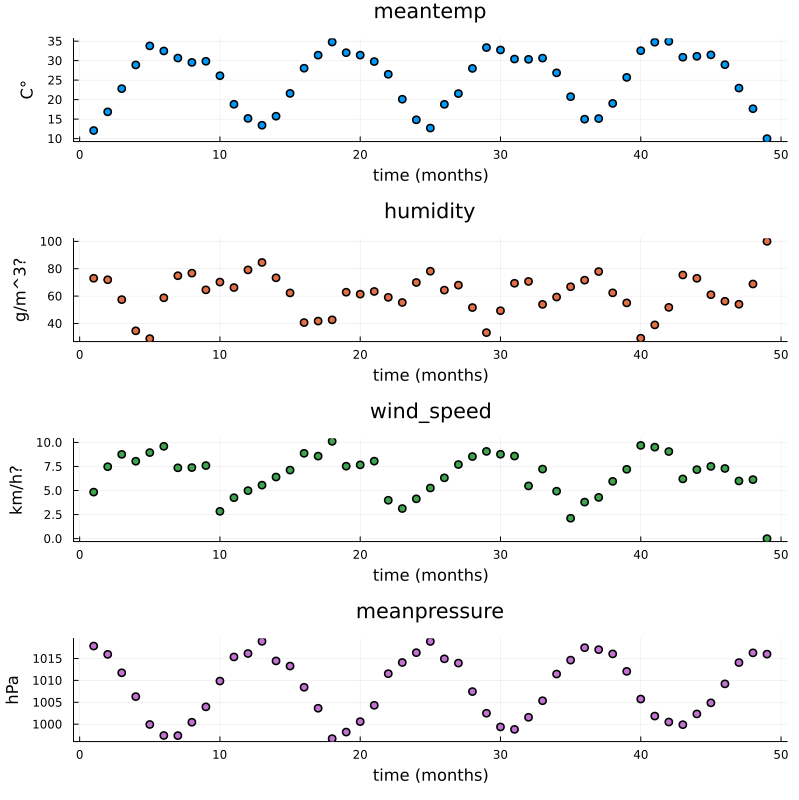
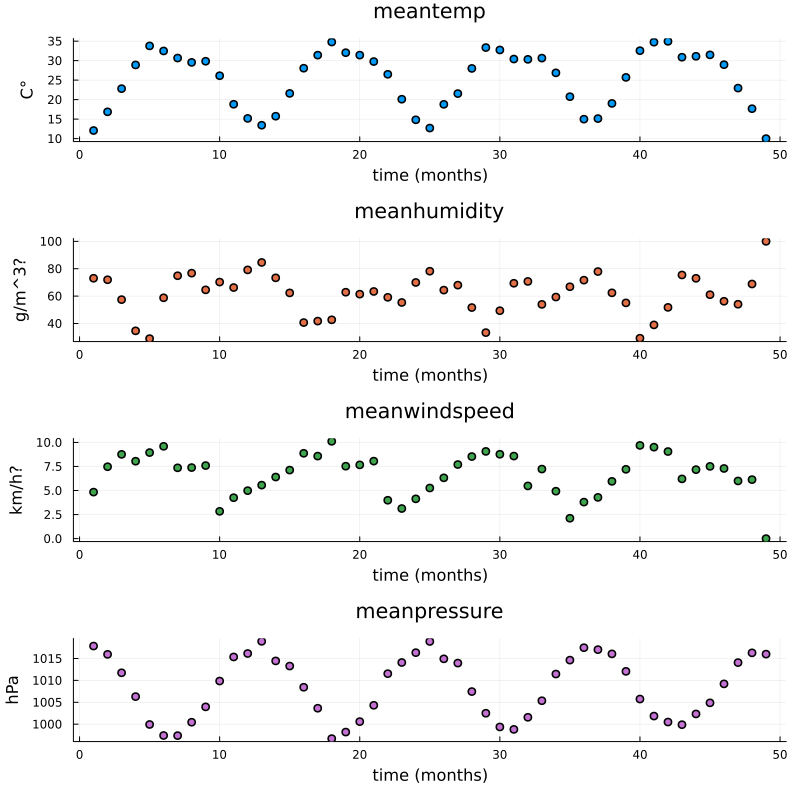
minor

diff --git a/content/regression.rst b/content/regression.rst
@@ -1362,7 +1362,7 @@ We will use data (waveform) similar to that of the last example.
 
    Zooming in a bit on the frequency graph.
 
-Since the climate data explored above is periodic we may attempt a simple model based on Fourier transforms. To have a cleaner presentaiton we aggregate the data over each month.
+Since the climate data explored above is periodic we may attempt a simple model based on Fourier transforms. To have a cleaner presentation we aggregate the data over each month.
 
 .. code-block:: julia
 
@@ -1384,7 +1384,7 @@ Since the climate data explored above is periodic we may attempt a simple model 
 
    M_m = [df_train_m.meantemp_mean df_train_m.humidity_mean df_train_m.wind_speed_mean df_train_m.meanpressure_mean]
 
-   plottitles = ["meantemp" "humidity" "wind_speed" "meanpressure"]
+   plottitles = ["meantemp" "meanhumidity" "meanwindspeed" "meanpressure"]
    plotylabels =  ["C°" "g/m^3?" "km/h?" "hPa"]
    plt = scatter(M_m, layout=(4,1), color=[1 2 3 4], legend=false, title=plottitles, xlabel="time (months)", ylabel=plotylabels, size=(800,800))
 
